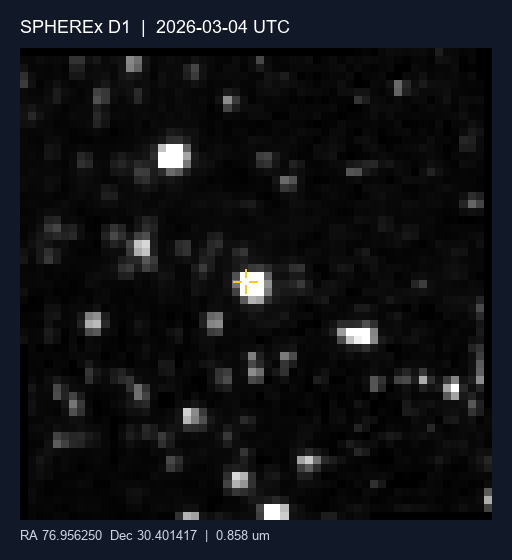
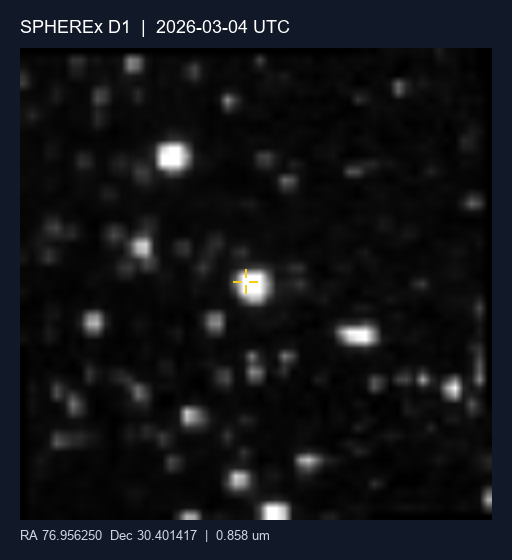
Clarify native SPHEREx resolution and smooth display

diff --git a/app.js b/app.js
@@ -1,18 +1,18 @@
 const targets = {
   wise: {
-    name: 'WISE 0855', ra: 133.795129, dec: -7.245147, detector: 'SPHEREx D2',
+    name: 'WISE 0855', ra: 133.795129, dec: -7.245147, detector: 'SPHEREx D2', nativePixels: [59, 59],
     note: 'These two frames come from real SPHEREx DR1 data, aligned on the sky and shown with the same brightness scale. They demonstrate a reproducible time-comparison workflow; visual inspection alone cannot confirm motion or brightness change for WISE 0855.',
     observations: [
-      { date: '2025-05-06 10:41 UTC', shortDate: '2025-05-06', timeline: '2025 MAY', id: '2025W19_1B_0231_1', wavelength: '1.280 µm', image: './wise0855-may.png', source: 'https://irsa.ipac.caltech.edu/ibe/cutout?ra=133.795129&dec=-7.245147&size=0.1&path=spherex/dr1/level2/2025W19_1B/l2b-v27-2026-197/2/level2_2025W19_1B_0231_1D2_spx_l2b-v27-2026-197.fits' },
-      { date: '2025-11-07 18:49 UTC', shortDate: '2025-11-07', timeline: '2025 NOV', id: '2025W45_2A_0278_2', wavelength: '1.285 µm', image: './wise0855-nov.png', source: 'https://irsa.ipac.caltech.edu/ibe/cutout?ra=133.795129&dec=-7.245147&size=0.1&path=spherex/dr1/level2/2025W45_2A/l2b-v27-2026-247/2/level2_2025W45_2A_0278_2D2_spx_l2b-v27-2026-247.fits' },
+      { date: '2025-05-06 10:41 UTC', shortDate: '2025-05-06', timeline: '2025 MAY', id: '2025W19_1B_0231_1', wavelength: '1.280 µm', image: './wise0855-may.png?v=2', source: 'https://irsa.ipac.caltech.edu/ibe/cutout?ra=133.795129&dec=-7.245147&size=0.1&path=spherex/dr1/level2/2025W19_1B/l2b-v27-2026-197/2/level2_2025W19_1B_0231_1D2_spx_l2b-v27-2026-197.fits' },
+      { date: '2025-11-07 18:49 UTC', shortDate: '2025-11-07', timeline: '2025 NOV', id: '2025W45_2A_0278_2', wavelength: '1.285 µm', image: './wise0855-nov.png?v=2', source: 'https://irsa.ipac.caltech.edu/ibe/cutout?ra=133.795129&dec=-7.245147&size=0.1&path=spherex/dr1/level2/2025W45_2A/l2b-v27-2026-247/2/level2_2025W45_2A_0278_2D2_spx_l2b-v27-2026-247.fits' },
     ],
   },
   rwaur: {
-    name: 'RW Aurigae', ra: 76.95625, dec: 30.401417, detector: 'SPHEREx D1',
+    name: 'RW Aurigae', ra: 76.95625, dec: 30.401417, detector: 'SPHEREx D1', nativePixels: [58, 59],
     note: 'These two frames come from real SPHEREx DR1 data, with central wavelengths near 0.85865 and 0.85822 µm at the target. The images are sky-aligned and use the same brightness scale. The central source is visible, but quality flags, error propagation, and photometry have not been applied, so brightness change cannot be confirmed.',
     observations: [
-      { date: '2025-09-03 17:22 UTC', shortDate: '2025-09-03', timeline: '2025 SEP', id: '2025W36_1A_0606_1', wavelength: '0.859 µm', image: './rwaur-sep.png', source: 'https://irsa.ipac.caltech.edu/ibe/cutout?ra=76.95625&dec=30.401417&size=0.1&path=spherex/dr1/level2/2025W36_1A/l2b-v27-2026-232/1/level2_2025W36_1A_0606_1D1_spx_l2b-v27-2026-232.fits' },
-      { date: '2026-03-04 07:54 UTC', shortDate: '2026-03-04', timeline: '2026 MAR', id: '2026W10_1A_0445_1', wavelength: '0.858 µm', image: './rwaur-mar.png', source: 'https://irsa.ipac.caltech.edu/ibe/cutout?ra=76.95625&dec=30.401417&size=0.1&path=spherex/dr1/level2/2026W10_1A/l2b-v27-2026-229/1/level2_2026W10_1A_0445_1D1_spx_l2b-v27-2026-229.fits' },
+      { date: '2025-09-03 17:22 UTC', shortDate: '2025-09-03', timeline: '2025 SEP', id: '2025W36_1A_0606_1', wavelength: '0.859 µm', image: './rwaur-sep.png?v=2', source: 'https://irsa.ipac.caltech.edu/ibe/cutout?ra=76.95625&dec=30.401417&size=0.1&path=spherex/dr1/level2/2025W36_1A/l2b-v27-2026-232/1/level2_2025W36_1A_0606_1D1_spx_l2b-v27-2026-232.fits' },
+      { date: '2026-03-04 07:54 UTC', shortDate: '2026-03-04', timeline: '2026 MAR', id: '2026W10_1A_0445_1', wavelength: '0.858 µm', image: './rwaur-mar.png?v=2', source: 'https://irsa.ipac.caltech.edu/ibe/cutout?ra=76.95625&dec=30.401417&size=0.1&path=spherex/dr1/level2/2026W10_1A/l2b-v27-2026-229/1/level2_2026W10_1A_0445_1D1_spx_l2b-v27-2026-229.fits' },
     ],
   },
 };
@@ -70,6 +70,7 @@ function selectTarget(key) {
   $('dec').value = target.dec;
   $('target-name').textContent = `${target.name} field`;
   $('detector-name').textContent = target.detector;
+  $('resolution-note').textContent = `Native SPHEREx cutout: ${target.nativePixels[0]} × ${target.nativePixels[1]} pixels, enlarged for viewing. Smoothing does not add detail.`;
   $('dataset-name').textContent = target.dataset || 'DR1';
   $('stage-title').textContent = `${target.name} · Two observations`;
   $('interpretation-text').textContent = target.note;
@@ -138,7 +139,7 @@ $('coordinate-form').addEventListener('submit', async (event) => {
     if (!response.ok) throw new Error(result.error || 'Archive search failed.');
     const name = `${ra.toFixed(5)}°, ${dec.toFixed(5)}°`;
     targets.live = {
-      name, ra, dec, detector: result.detector.replace('-', ' '),
+      name, ra, dec, detector: result.detector.replace('-', ' '), nativePixels: result.native_pixels,
       dataset: result.collection.replace('spherex_', '').toUpperCase(),
       note: result.warning,
       observations: result.frames.map((item, index) => ({

diff --git a/index.html b/index.html
@@ -6,9 +6,9 @@
   <meta name="theme-color" content="#07111e">
   <meta name="description" content="Singularis — Beyond Limits, Beyond the Known. Explore the changing sky with real SPHEREx observations.">
   <title>Singularis · SPHEREx Sky Change Viewer</title>
-  <link rel="stylesheet" href="./styles.css?v=3">
+  <link rel="stylesheet" href="./styles.css?v=4">
   <script src="./config.js?v=2" defer></script>
-  <script src="./app.js?v=4" defer></script>
+  <script src="./app.js?v=5" defer></script>
 </head>
 <body>
   <header class="topbar">
@@ -50,14 +50,15 @@
           <div class="stage-top"><div><span class="panel-kicker">TIME SERIES</span><h3 id="stage-title">WISE 0855 · Two observations</h3></div><div class="mode-switch" role="group" aria-label="View mode"><button id="mode-play" class="mode active" type="button" aria-pressed="true">Frame by frame</button><button id="mode-compare" class="mode" type="button" aria-pressed="false">Compare</button></div></div>
           <div class="stage-wrap">
             <div id="frame-stage" class="image-stage" aria-label="SPHEREx sky field image">
-              <img id="frame-image" src="./wise0855-may.png" alt="WISE 0855 sky field observation from 2025-05-06">
+              <img id="frame-image" src="./wise0855-may.png?v=2" alt="WISE 0855 sky field observation from 2025-05-06">
             </div>
             <div id="compare-stage" class="image-stage comparison" hidden aria-label="Sliding comparison of two observations">
-              <img id="compare-later-image" src="./wise0855-nov.png" alt="" aria-hidden="true">
-              <div id="top-layer" class="top-layer"><img id="compare-earlier-image" src="./wise0855-may.png" alt="" aria-hidden="true"></div>
+              <img id="compare-later-image" src="./wise0855-nov.png?v=2" alt="" aria-hidden="true">
+              <div id="top-layer" class="top-layer"><img id="compare-earlier-image" src="./wise0855-may.png?v=2" alt="" aria-hidden="true"></div>
               <div id="comparison-line" class="comparison-line"><span>↔</span></div>
             </div>
           </div>
+          <p id="resolution-note" class="resolution-note">Native SPHEREx cutout: 59 × 59 pixels, enlarged for viewing. Smoothing does not add detail.</p>
           <div id="player-controls" class="player-controls">
             <button id="prev" class="icon-btn" type="button" aria-label="Previous frame">←</button>
             <button id="play" class="play-btn" type="button" aria-label="Play">▶ <span>Play</span></button>

diff --git a/styles.css b/styles.css
@@ -60,6 +60,7 @@ a{color:inherit}
 .stage-wrap{min-height:420px;display:grid;place-items:center;background:#f8f8fb;border:1px solid var(--line);border-radius:9px;padding:12px}
 .image-stage{width:min(100%,510px);aspect-ratio:512/560;max-height:510px;position:relative;overflow:hidden}
 .image-stage img{display:block;width:100%;height:100%;object-fit:contain}
+.resolution-note{margin:8px 0 0;color:var(--muted);font-size:11px;line-height:1.5}
 .image-stage[hidden],.player-controls[hidden],.compare-controls[hidden]{display:none!important}
 .comparison .top-layer{position:absolute;inset:0;clip-path:inset(0 50% 0 0)}
 .comparison-line{position:absolute;top:0;bottom:0;left:50%;width:2px;background:var(--red);pointer-events:none}
